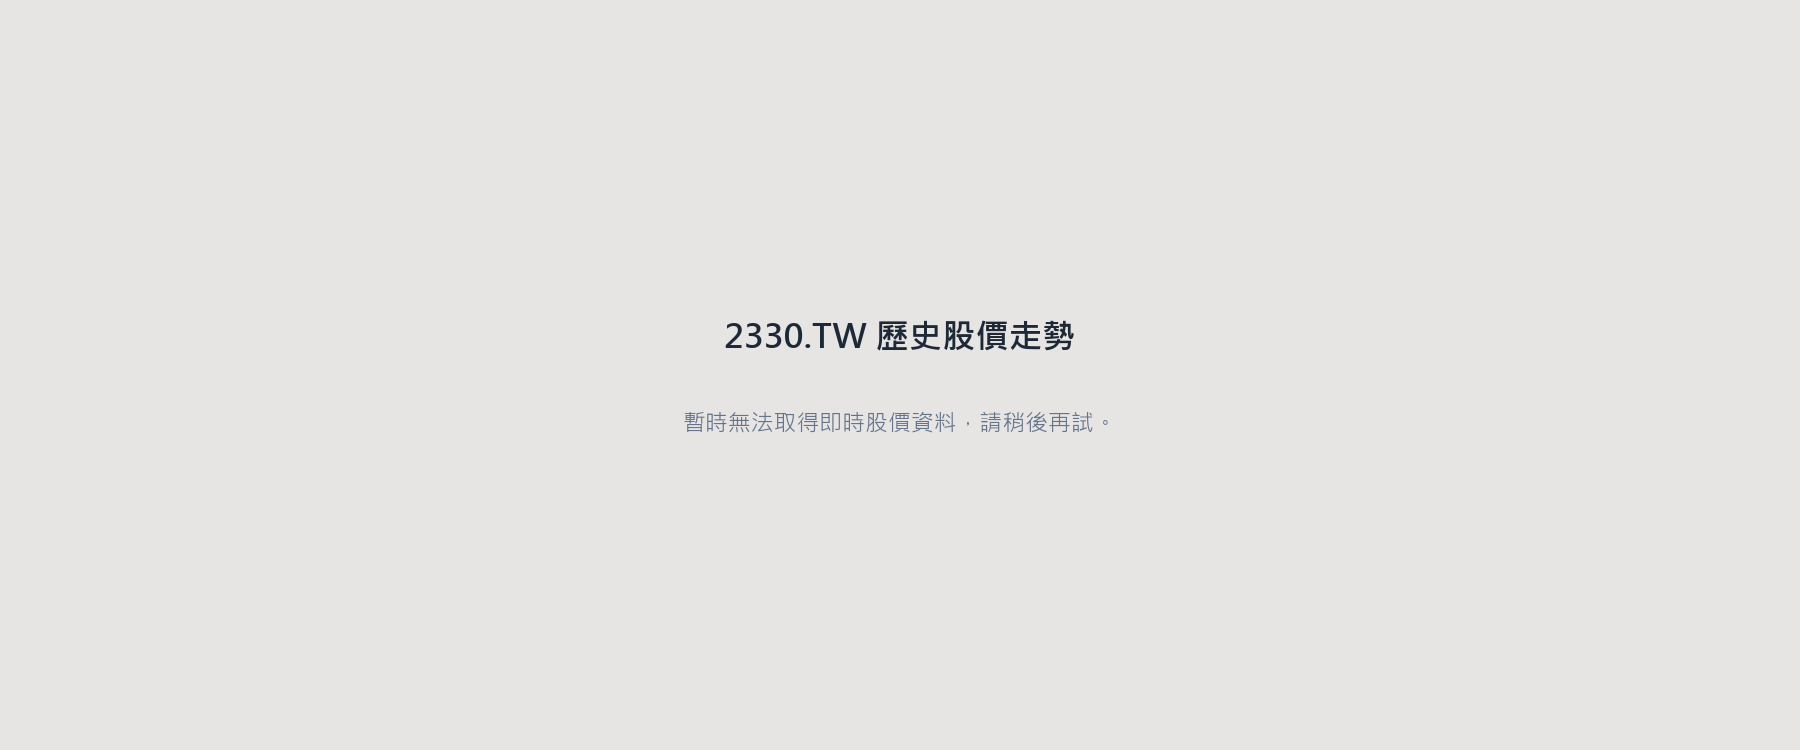
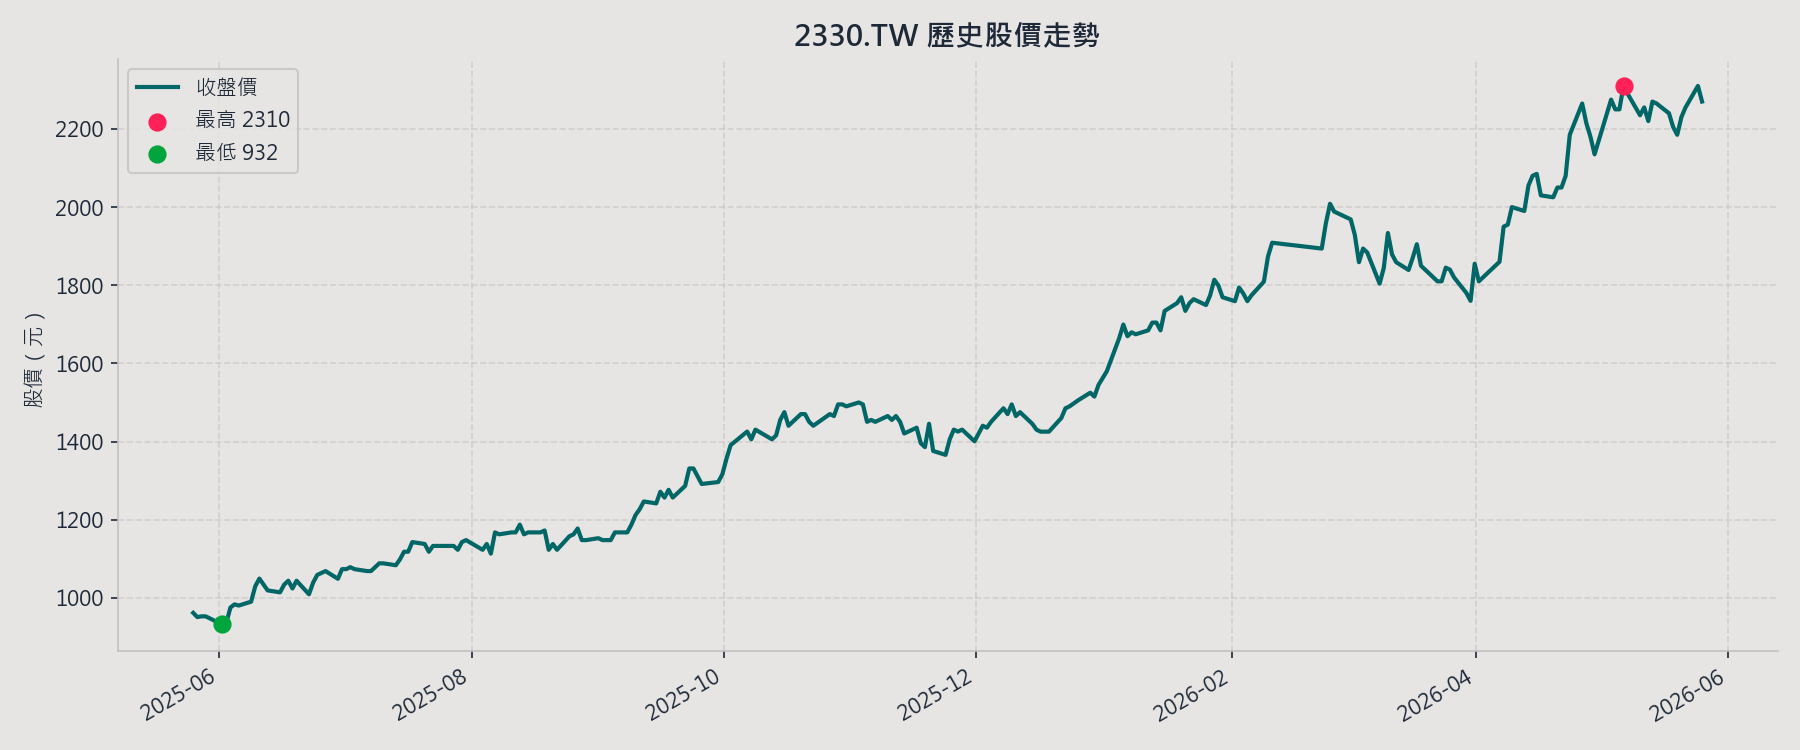
chore: 優化新聞過濾、移除內文字數限制

diff --git a/analysis/fetcher.py b/analysis/fetcher.py
@@ -568,7 +568,7 @@ def get_stock_news(symbol: str, start_date_str: str = None) -> dict:
 def fetch_article_content(url: str) -> str:
     """
     爬取新聞網頁的 HTML，提取 <p> 段落並過濾廣告/短文字。
-    限制總長度中文約 800 字，英文約 2500 字，回傳做為新聞內文脈絡。
+    不限制總長度，回傳做為新聞內文脈絡。
     """
     if not url or url == "#" or not url.startswith("http"):
         return ""
@@ -620,30 +620,33 @@ def fetch_article_content(url: str) -> str:
                     txt = p.get_text().strip()
                     txt_lower = txt.lower()
                     
-                    # Skip garbage blocks
-                    if len(txt) < 25:
-                        continue
-                    if "cookie" in txt_lower or "copyright" in txt_lower:
-                        continue
-                    if "join 7 million investors" in txt_lower or "find winning stocks" in txt_lower:
-                        continue
-                    if "sign up for free" in txt_lower or "廣告" in txt_lower or "版權所有" in txt_lower:
-                        continue
-                    if "something went wrong" in txt_lower or "oops, something" in txt_lower:
+                    # 1. 事先定義好要過濾的關鍵字清單（放迴圈外效能更好）
+                    GARBAGE_KEYWORDS = [
+                        "cookie", "copyright", "join 7 million investors", "find winning stocks",
+                        "sign up for free", "廣告", "版權所有", "something went wrong", "oops, something",
+                        "earn commission", "link below",
+                        "將 Yahoo 設為首選來源", "在 Google 上查看更多我們的精彩報導",
+                        "The content on this Site is provided for information purposes only",
+                        "Find your next quality investment with",
+
+                    ]
+
+                    # 2. 迴圈內的判斷式
+                    if len(txt) < 25 or any(kw in txt_lower for kw in GARBAGE_KEYWORDS):
                         continue
                         
                     paragraphs.append(txt)
                     accumulated_len += len(txt)
                     
                     # 判斷是否含中文，動態設定長度上限
-                    is_cjk = any('\u4e00' <= char <= '\u9fff' for char in txt)
-                    limit = 800 if is_cjk else 2500
-                    if accumulated_len >= limit:
-                        break
-                    if len(paragraphs) >= 10:  # 安全上限
-                        break
+                    # is_cjk = any('\u4e00' <= char <= '\u9fff' for char in txt)
+                    # limit = 800 if is_cjk else 2500
+                    # if accumulated_len >= limit:
+                    #     break
+                    # if len(paragraphs) >= 10:  # 安全上限
+                    #     break
                         
-                content = " ".join(paragraphs).strip()
+                content = " \\\\ ".join(paragraphs).strip()
                 
                 # Fallback to JSON-LD parsing for JS-heavy or forum sites (like CMoney forum posts)
                 if len(content) < 100:
@@ -674,9 +677,9 @@ def fetch_article_content(url: str) -> str:
                         content = json_ld_content
                         
                 # 最終裁切字數依內容語言決定
-                is_cjk = any('\u4e00' <= char <= '\u9fff' for char in content)
-                limit = 800 if is_cjk else 2500
-                return content[:limit]
+                # is_cjk = any('\u4e00' <= char <= '\u9fff' for char in content)
+                # limit = 800 if is_cjk else 2500
+                return content #[:limit]
             except ImportError:
                 return ""
     except Exception as e: